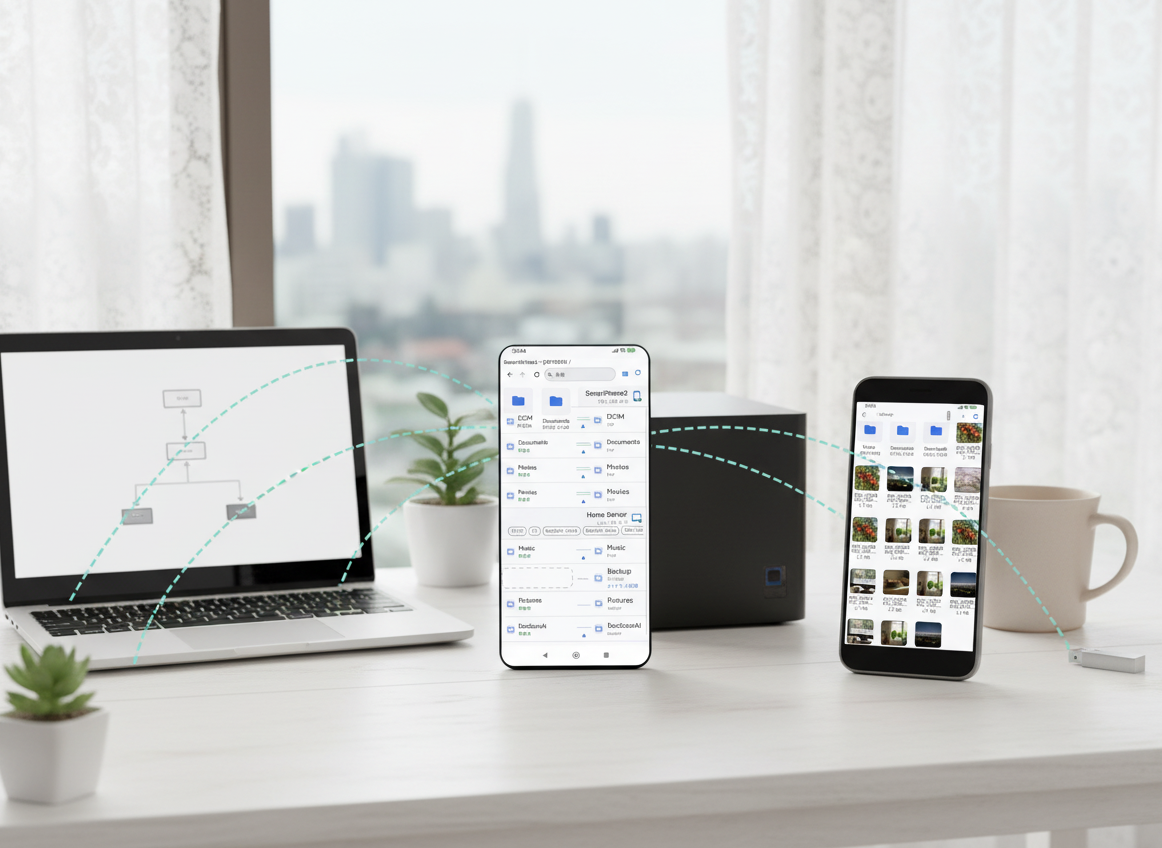
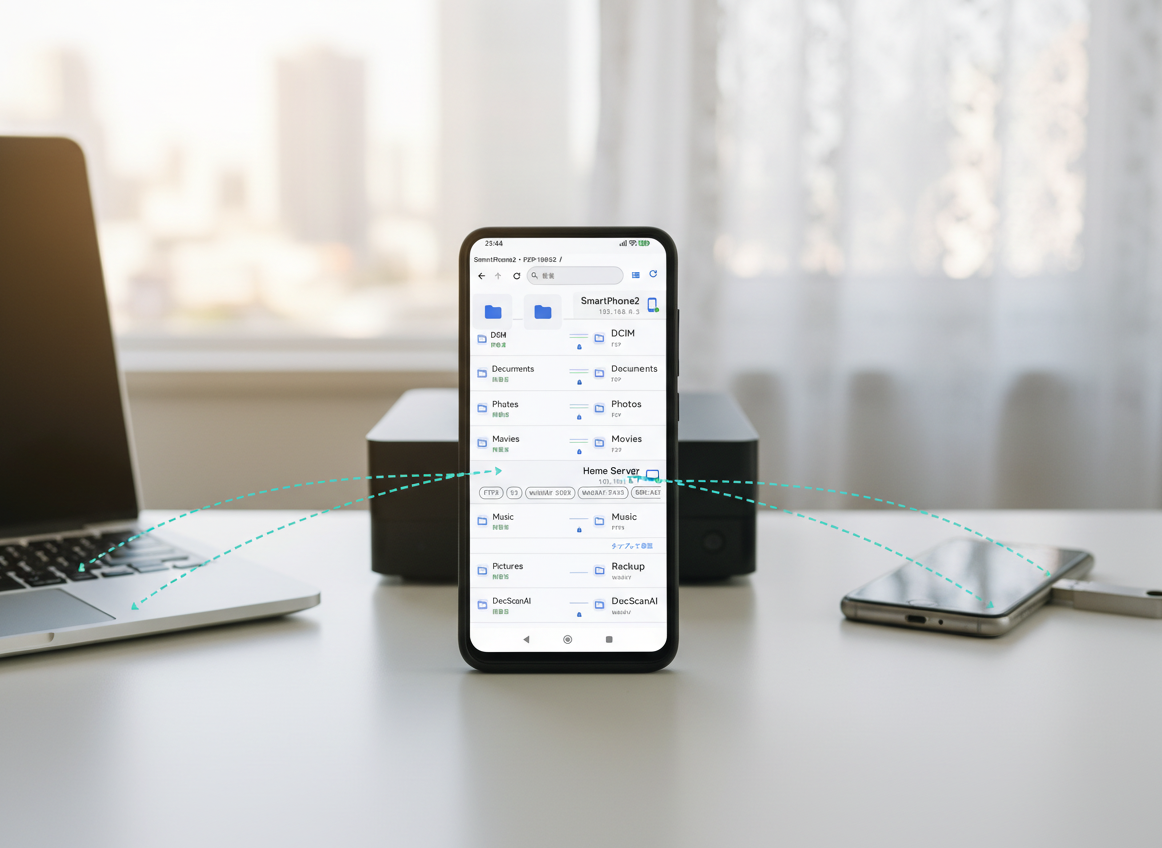
sync: ShareOrBackup promo/web を反映

diff --git a/en/index.html b/en/index.html
@@ -371,7 +371,7 @@
         </div>
       </div>
       <div class="hero-visual">
-        <img class="hero-ai" src="../hero_ai.png" width="1162" height="848" alt="白い机の上のスマホと、NAS・ノートPC・古いスマホ・USBが点線でつながる様子" fetchpriority="high" decoding="async" />
+        <img class="hero-ai" src="../hero_ai.png" width="1162" height="848" alt="メイン画面を大きく写したスマホと、点線でつながるNAS・ノートPC・古いスマホ・USB" fetchpriority="high" decoding="async" />
       </div>
     </div>
   </section>

diff --git a/index.html b/index.html
@@ -381,7 +381,7 @@
         </div>
       </div>
       <div class="hero-visual">
-        <img class="hero-ai" src="hero_ai.png" width="1162" height="848" alt="白い机の上のスマホと、NAS・ノートPC・古いスマホ・USBが点線でつながる様子" fetchpriority="high" decoding="async" />
+        <img class="hero-ai" src="hero_ai.png" width="1162" height="848" alt="メイン画面を大きく写したスマホと、点線でつながるNAS・ノートPC・古いスマホ・USB" fetchpriority="high" decoding="async" />
       </div>
     </div>
   </section>
